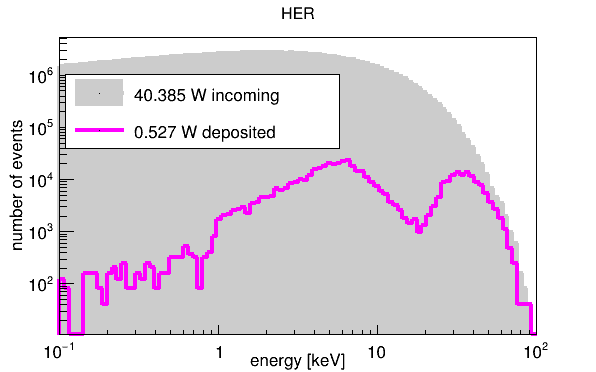
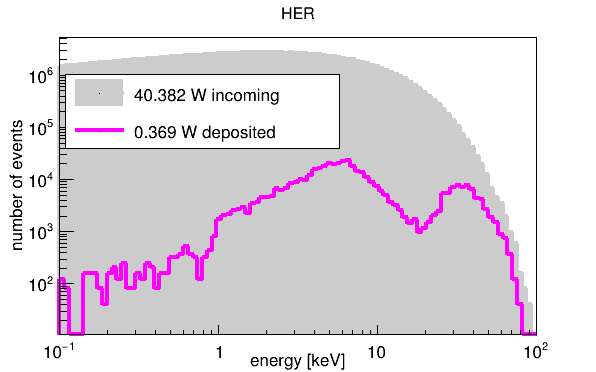
added ENEPIG plating option and defined compositions and thicknesses more carefully for ENIG and ENEPIG

diff --git a/src/B1DetectorConstruction.cc b/src/B1DetectorConstruction.cc
@@ -1,5 +1,5 @@
 // modified from original exampleB1 2019-04 by mza
-// last updated 2021-04-19 by mza
+// last updated 2021-05-13 by mza
 
 // ********************************************************************
 // * License and Disclaimer                                           *
@@ -42,6 +42,8 @@
 #include "sensitiveObject.hh"
 //#include "G4PVPlacement.hh"
 #include "G4SystemOfUnits.hh"
+#define mil (25.4*mm/1000.) // 25.4 mm = 1000 mil
+#define uinch (25.4*mm/1000000.) // 25.4 mm = 1000000 uinch
 
 //....oooOO0OOooo........oooOO0OOooo........oooOO0OOooo........oooOO0OOooo......
 
@@ -133,7 +135,6 @@ G4VPhysicalVolume* B1DetectorConstruction::Construct() {
 	//G4Material *env_mat = nist->FindOrBuildMaterial("G4_AIR"); // suppression; HER=8743/447/162 LER=21459/597/268
 	G4Material *copper_mat = nist->FindOrBuildMaterial("G4_Cu");
 	G4Material *Be_mat = nist->FindOrBuildMaterial("G4_Be");
-	G4Material *gold_mat = nist->FindOrBuildMaterial("G4_Au");
 	G4Material *Si_mat = nist->FindOrBuildMaterial("G4_Si");
 	G4Material *Al_mat = nist->FindOrBuildMaterial("G4_Al");
 	G4String name = "nothing";
@@ -227,6 +228,7 @@ G4VPhysicalVolume* B1DetectorConstruction::Construct() {
 	G4double gold_sizeZ = 20.*um;
 	G4ThreeVector gold_pos = G4ThreeVector(0, 0, position_of_mask-gold_sizeZ/2.);
 	G4Tubs *gold_solid = new G4Tubs(name, 0., object_radius, 0.5*gold_sizeZ, 0., 2.*M_PI);
+	G4Material *gold_mat = nist->FindOrBuildMaterial("G4_Au");
 	G4LogicalVolume *gold_logical_volume = new G4LogicalVolume(gold_solid,         //its solid
 	                      gold_mat,          //its material
 	                      name);           //its name
@@ -349,7 +351,6 @@ G4VPhysicalVolume* B1DetectorConstruction::Construct() {
 		#endif
 //#define COPPER_BLOCKER_ON
 		#ifdef COPPER_BLOCKER_ON
-			//G4Material* copper_mat = nist->FindOrBuildMaterial("G4_Cu");
 			G4ThreeVector copper1_pos = G4ThreeVector(0, 0, 45.*cm - env_sizeZ/2.);
 			name = "CopperBlocker";
 			//G4double copper1_length = 200.*um; // HER=8743/4/0 LER=21459/0/0
@@ -439,30 +440,79 @@ G4VPhysicalVolume* B1DetectorConstruction::Construct() {
 			                  checkOverlaps);          //overlaps checking
 			sensitiveObjectVector.push_back(objet);
 		#endif
-		// ENIG
 		name = "Plating";
-		G4double thickness_nickel = 4.5*um;
-		G4double thickness_gold = 100.*nm;
 		G4double positionZ_of_plating = 50.*cm;
-		G4double plating_sizeX = thickness_nickel + thickness_gold;
 		G4double plating_sizeY = 40.*mm;
 		G4double plating_sizeZ = 56.*mm;
-		G4double density_nickel = 8.908*g/cm3;
-		G4double density_gold = 19.3*g/cm3;
-		//G4double fraction_nickel = thickness_nickel/plating_sizeX;
-		//G4double fraction_gold = density_gold/plating_sizeX;
-		G4double density_ENIG = (density_nickel*thickness_nickel + density_gold*thickness_gold) / plating_sizeX;
-		G4Material *ENIG_mat = new G4Material(name,density_ENIG,ncomponents=2);
-		G4Element *Ni = nist->FindOrBuildElement("Ni");
-		G4Element *Au = nist->FindOrBuildElement("Au");
-		//ENIG_mat->AddElement(Ni,fraction_nickel);
-		//ENIG_mat->AddElement(Au,fraction_gold);
-		ENIG_mat->AddElement(Ni,97.826*perCent); // this is wrong
-		ENIG_mat->AddElement(Au,2.174*perCent); // this is wrong
+#define ENIG
+//#define ENEPIG
+		#ifdef ENIG // ENIG or "soft gold"
+			G4double plating_sizeX = 1.2*mil;
+			G4double thickness_gold = 100.*nm;
+			G4double thickness_nickel = 4.5*um;
+			G4double thickness_copper = plating_sizeX - thickness_nickel - thickness_gold;
+			G4double density_copper = 8.96*g/cm3;
+			G4double density_nickel = 8.908*g/cm3;
+			G4double density_gold = 19.3*g/cm3;
+			//G4double fraction_nickel = thickness_nickel/plating_sizeX;
+			//G4double fraction_gold = density_gold/plating_sizeX;
+			G4double density_plating = (density_copper*thickness_copper + density_nickel*thickness_nickel + density_gold*thickness_gold) / plating_sizeX;
+			if (0) {
+				G4cout << "thickness_plating = " << plating_sizeX/um <<  " um" <<G4endl;
+				G4cout << "thickness_copper = " << thickness_copper/um <<  " um" <<G4endl;
+				G4cout << "thickness_nickel = " << thickness_nickel/um <<  " um" <<G4endl;
+				G4cout << "thickness_gold = " << thickness_gold/um << " um" << G4endl;
+				G4cout << "density_plating = " << density_plating*cm3/g << " g/cm3" << G4endl;
+			}
+			G4Material *plating_mat = new G4Material(name,density_plating,ncomponents=3);
+			G4Element *Cu = nist->FindOrBuildElement("Cu");
+			G4Element *Ni = nist->FindOrBuildElement("Ni");
+			G4Element *Au = nist->FindOrBuildElement("Au");
+			//plating_mat->AddElement(Ni,fraction_nickel);
+			//plating_mat->AddElement(Au,fraction_gold);
+			plating_mat->AddElement(Cu,thickness_copper/plating_sizeX);
+			plating_mat->AddElement(Ni,thickness_nickel/plating_sizeX);
+			plating_mat->AddElement(Au,thickness_gold/plating_sizeX);
+		#elif defined ENEPIG
+			G4double plating_sizeX = 1.2*mil;
+			G4double thickness_gold = 1.5*uinch;
+			G4double thickness_palladium = 4.*uinch;
+			G4double thickness_nickel = 180.*uinch;
+			G4double thickness_copper = plating_sizeX - thickness_nickel - thickness_palladium - thickness_gold;
+			G4double density_copper = 8.96*g/cm3;
+			G4double density_nickel = 8.908*g/cm3;
+			G4double density_palladium = 12.203*g/cm3;
+			G4double density_gold = 19.3*g/cm3;
+			//G4double fraction_nickel = thickness_nickel/plating_sizeX;
+			//G4double fraction_gold = density_gold/plating_sizeX;
+			G4double density_plating = (density_copper*thickness_copper + density_nickel*thickness_nickel + density_palladium*thickness_palladium + density_gold*thickness_gold) / plating_sizeX;
+			if (0) {
+				G4cout << "thickness_plating = " << plating_sizeX/um <<  " um" <<G4endl;
+				G4cout << "thickness_copper = " << thickness_copper/um <<  " um" <<G4endl;
+				G4cout << "thickness_nickel = " << thickness_nickel/um <<  " um" <<G4endl;
+				G4cout << "thickness_palladium = " << thickness_palladium/um <<  " um" <<G4endl;
+				G4cout << "thickness_gold = " << thickness_gold/um << " um" << G4endl;
+				G4cout << "density_plating = " << density_plating*cm3/g << " g/cm3" << G4endl;
+			}
+			G4Material *plating_mat = new G4Material(name,density_plating,ncomponents=4);
+			G4Element *Cu = nist->FindOrBuildElement("Cu");
+			G4Element *Ni = nist->FindOrBuildElement("Ni");
+			G4Element *Pd = nist->FindOrBuildElement("Pd");
+			G4Element *Au = nist->FindOrBuildElement("Au");
+			//plating_mat->AddElement(Ni,fraction_nickel);
+			//plating_mat->AddElement(Au,fraction_gold);
+			plating_mat->AddElement(Cu,thickness_copper/plating_sizeX);
+			plating_mat->AddElement(Ni,thickness_nickel/plating_sizeX);
+			plating_mat->AddElement(Pd,thickness_palladium/plating_sizeX);
+			plating_mat->AddElement(Au,thickness_gold/plating_sizeX);
+//		#else // "wirebondable gold"
+//		#else // "deep/hard gold"
+//			// ???
+		#endif
 		G4ThreeVector plating_pos = G4ThreeVector(-sensor_sizeX/2.-plating_sizeX/2., 0, positionZ_of_plating - inside_dimension_of_box/2. + plating_sizeZ/2.);
 		G4Box *plating_solid = new G4Box(name, plating_sizeX/2., plating_sizeY/2., plating_sizeZ/2.);
 		G4LogicalVolume *plating_logical_volume = new G4LogicalVolume(plating_solid,         //its solid
-		                      ENIG_mat,          //its material
+		                      plating_mat,          //its material
 		                      name);           //its name
 		objet = new sensitiveObject(0,                       //no rotation
 		                  plating_pos,                    //at position

diff --git a/spectra.py b/spectra.py
@@ -1,7 +1,7 @@
 #!/usr/bin/env python3
 
 # written 2019-04-30 by mza
-# last updated 2021-04-18 by mza
+# last updated 2021-05-13 by mza
 
 import os # path, environ
 import sys # path, exit, argv
@@ -160,6 +160,9 @@ for filename in filenames:
 					#match = re.search("(BeFilter|BeWindow|scint_gold_GoldMask|DiamondMask|LuAG:Ce|Copper|SiBeamDump)", name)
 					if match:
 						continue
+					#match = re.search("(Copper)", name)
+					#if match:
+					#	continue
 				#match = re.search("(SiEdgeOn|CopperBlock|SiHandle|WireBonds|Plating)", tag)
 				#name = filename + "_SiEdgeOn_CopperBlock_SiHandle_WireBonds_Plating"
 				name = "deposited"
